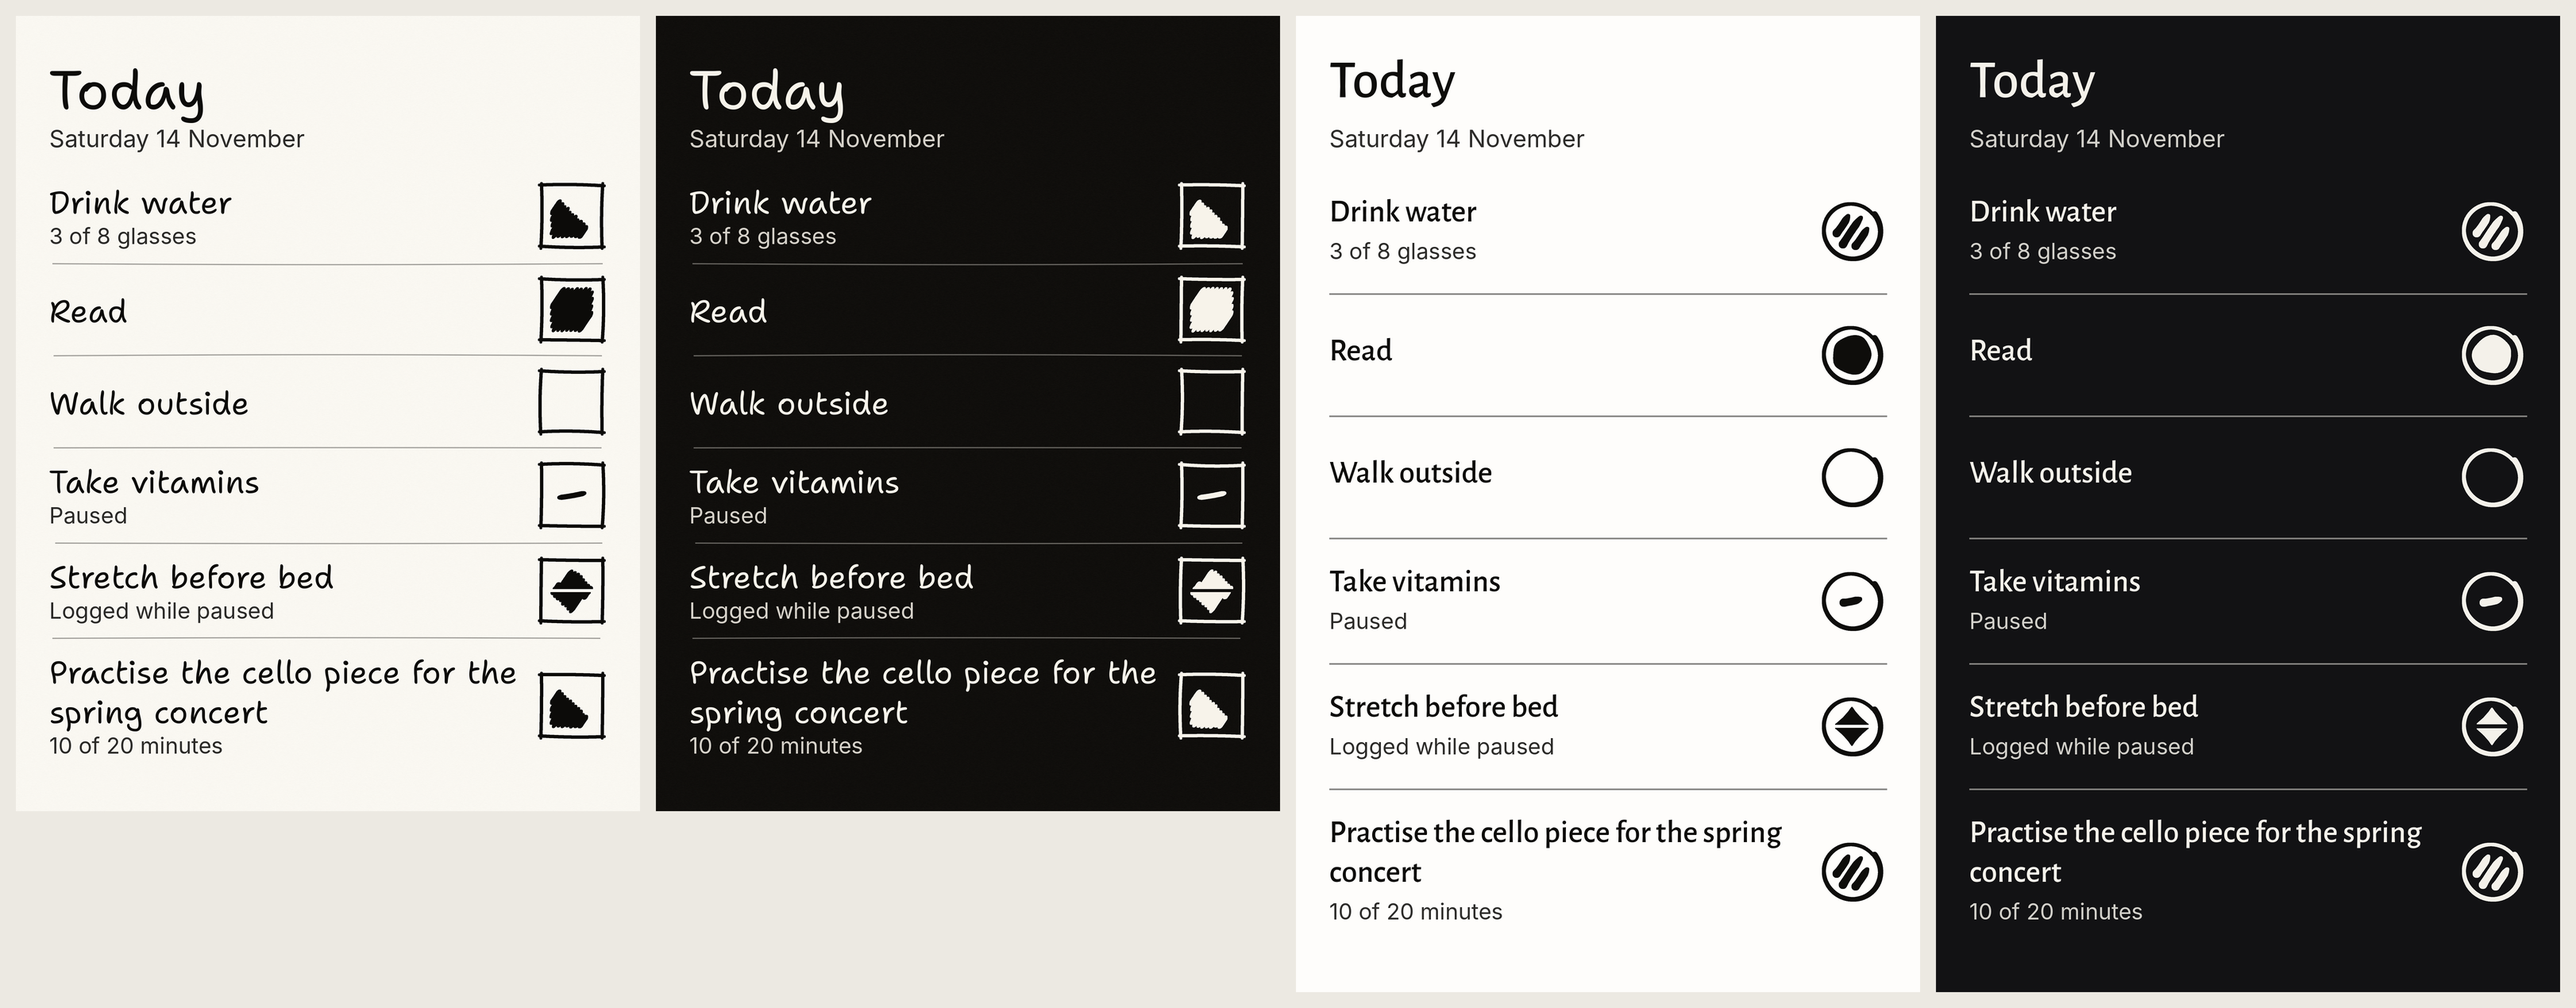
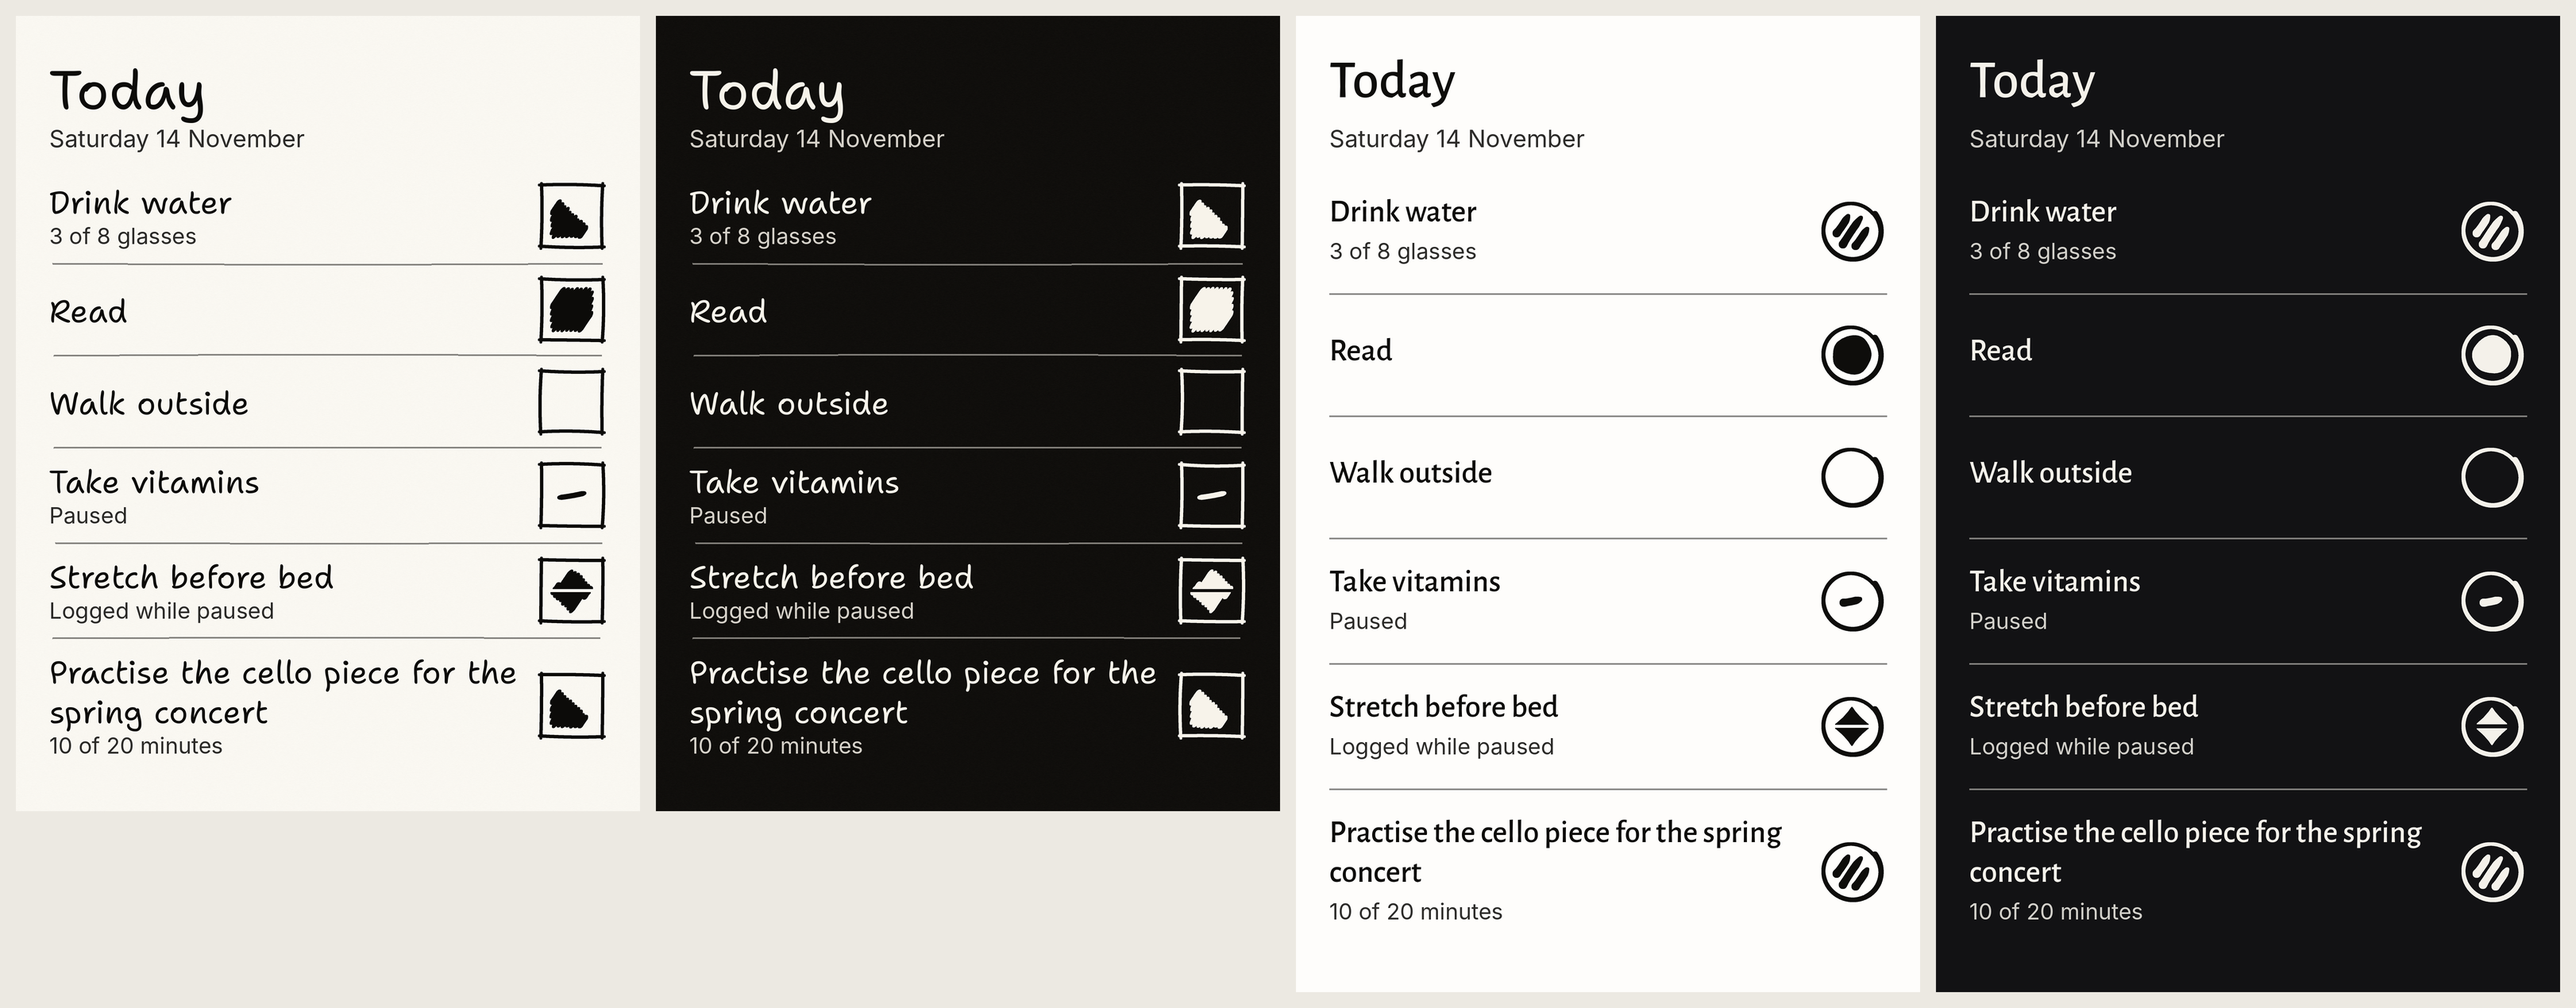
Step 4 reviewed: three owed drawing fixes applied and recorded
Claude-Session: https://claude.ai/code/session_012NdevCAvT4U8qS7nMJ64YM

diff --git a/tools/marks/full_marks.py b/tools/marks/full_marks.py
@@ -47,7 +47,7 @@ SQUARE = [(-H, -H), (H, -H), (H, H), (-H, H)]
 LOWER = [(-H, -H), (-H, H), (H, H)]
 DIAMOND = [(0, -H), (H, 0), (0, H), (-H, 0)]
 CUT = 1.25
-GROW = 0.0                   # Increase Contrast: the today square is half a point larger and the ring 0.6, so the heavier strokes keep 3 points clear
+GROW = 0.0                   # Increase Contrast: the today square is half a point larger and the ring 0.9, so the heavier strokes keep 3 points clear
 GAPX = 0.0                   # Increase Contrast: extra space between the dashes of 'to come', so 2 points of paper remain after the strokes thicken
 AMP = 0.035                  # how uneven the Watercolor disc's edge is
 tooth = gaussian_filter(rng.random((N, N)), 1.2); tooth = (tooth - tooth.min()) / (tooth.max() - tooth.min())
@@ -177,7 +177,7 @@ def water(state, ink=False):
     return np.zeros((N, N)), np.zeros((N, N), bool)
 
 def water_today():                                          # one brushed ring: pooled where it starts, thin where it lifts, gap of 1 point at most
-    r = H + 5.4 + GROW * 1.2; n = 120; gap = 1.0 / r; start = -0.7
+    r = H + 5.4 + GROW * 1.8; n = 120; gap = 1.0 / r; start = -0.7
     def at(i): a = start + gap + (2 * math.pi - gap) * i / n; rr = r + 0.3 * math.sin(a * 2 + 0.6) - 0.9 * (i / n); return rr * math.cos(a), rr * math.sin(a)   # the end lands just inside the start
     def width(i): t = i / n; return max(1.5, 3.0 - 1.5 * t ** 0.7)       # 3 points where it pools at the start, thinning all the way round to 1.5 where it lifts
     return mask(lambda d: [stamp(d, [at(i), at(i + 0.5), at(i + 1)], (lambda t, w=width(i): w), 4) for i in range(n)])
@@ -201,7 +201,7 @@ def render(style, ap, state, accent, outline=False, ic=False):
     if ic:                                                  # marks in the text colour, flat, heavier; the diamond's cut half a point wider as drawn; Watercolor loses wash and grain
         if state == "today": state, outline = "done", True
         fn = pencil if style == "pencil" else (lambda s: water(s, ink))
-        GAPX, AMP = 1.5, 0.06; CUT = 1.25 + 0.5 + 0.5                              # drawn a point wider, because the heavier strokes take half a point back
+        GAPX, AMP = 1.9, 0.045; CUT = 1.25 + 0.5 + 0.5                              # drawn a point wider, because the heavier strokes take half a point back
         try: a, _ = fn(state)
         finally: CUT, GAPX, AMP = 1.25, 0.0, 0.035
         a = heavier(a)

diff --git a/tools/marks/today_rows.py b/tools/marks/today_rows.py
@@ -52,7 +52,7 @@ def panel(style, ap, ic=False):
                 t = (px / Q - x0) / (x1 - x0); cyp = (yy + bow * math.sin(math.pi * t)) * Q
                 press = 0.5 if ic else (0.62 + 0.2 * math.sin(t * 5 + ph[0]) + 0.12 * math.sin(t * 17 + ph[1])) * min(1, t / 0.03 + 0.4, (1 - t) / 0.03 + 0.4)
                 for py in range(int(cyp - Q), int(cyp + Q) + 1):
-                    a = max(0, 1 - abs(py - cyp) / (Q * 0.55)) * press * (1 if ic else (0.25 if big[py, px] > 0.6 else 1))
+                    a = (press if abs(py - cyp) <= Q / 2 else 0) if ic else max(0, 1 - abs(py - cyp) / (Q * 0.55)) * press * (1 if ic else (0.25 if big[py, px] > 0.6 else 1))
                     field[py, px] = field[py, px] * (1 - a) + text * a
     im = Image.fromarray((np.clip(field, 0, 1) * 255).astype("uint8")); d = ImageDraw.Draw(im)
     if ic and style == "watercolor":                                         # Increase Contrast: one straight line, 1 point, in the text colour

diff --git a/docs/spec-m4.md b/docs/spec-m4.md
@@ -171,14 +171,14 @@ Gates before the milestone 4 build:
 - A three-line name and the largest text size are checked on the in-app screens. If rows stop separating in Watercolor, the row gap grows with the text size.
 - Whether Pen and ink drops the plus in a counted control: human factors and first-day user.
 
-## Step 4: Increase Contrast. Drawn, in review
+## Step 4: Increase Contrast. Passed, with three drawing fixes owed a measurement
 
 The rule, gathered from condition 7, step 3 and `CLAUDE.md`. Lines marked "new" go beyond those and move to `docs/decisions.md` when this file is merged.
 
 - Every mark is drawn in the text colour. The accent is not used. Measured 16.6:1 to 19.1:1.
 - Every stroke is half a point heavier. Marks are flat: no wash, no rim, no specks.
 - New: the diamond's cut is 1.75 points at 24 points, half a point wider than usual.
-- New: the today square is half a point larger and the ring 0.6 of a point larger, so the heavier strokes keep 3 points clear of the mark. Both stay inside 44 points.
+- New: the today square is half a point larger and the ring 0.9 of a point larger, so the heavier strokes keep 3 points clear of the mark. Both stay inside 44 points.
 - New: the dashes of "to come" sit further apart, so 2 points of bare paper remain between them after the strokes thicken.
 - New: the Watercolor disc keeps an uneven edge and the ring keeps its thick start and thin end, so the control does not read as a radio button.
 - Pencil keeps its paper grain. Watercolor loses its grain.
@@ -191,3 +191,12 @@ Drawings: `docs/mockups/png/m4-today-rows-ic.png` and `docs/mockups/png/m4-marks
 Closed: the step 3 clearance owed item. The lens measured 3.0 to 4.2 points without Increase Contrast.
 
 Added to the human factors gate before the build: in black, the Watercolor disc in a ring (radio button), the paused dab in a ring (delete button), and the diamond's two triangles in both styles (stepper arrows).
+
+Review, 16 November 2026, two rounds each. Senior designer and product owner passed all five of their findings. Accessibility and low vision passed the mark contrast, the cut, the control sizes, the states after the blur, the dashes of "to come" after the blur, and the Watercolor row line at 3.63:1 on Paper and 4.87:1 on Ink.
+
+Owed, round two spent. Each fix below is the lens's own and is applied. No lens has measured it since.
+- Bare paper between "to come" dashes measured 1.7 points against 2. Fix: 1.9 points of extra spacing.
+- Watercolor done on Paper measured 2.69 points clear of the ring against 3. Fix: a less uneven disc edge (0.045) and the ring 0.9 of a point larger.
+- The Pencil row line averaged 1.87:1 and 2.30:1 across its width against 3:1. Fix: drawn flat at half strength across the full point.
+
+These three, and the human factors gate above, are copied into `docs/findings.md` when this branch is merged. That file is being edited on `feat/history` now.
